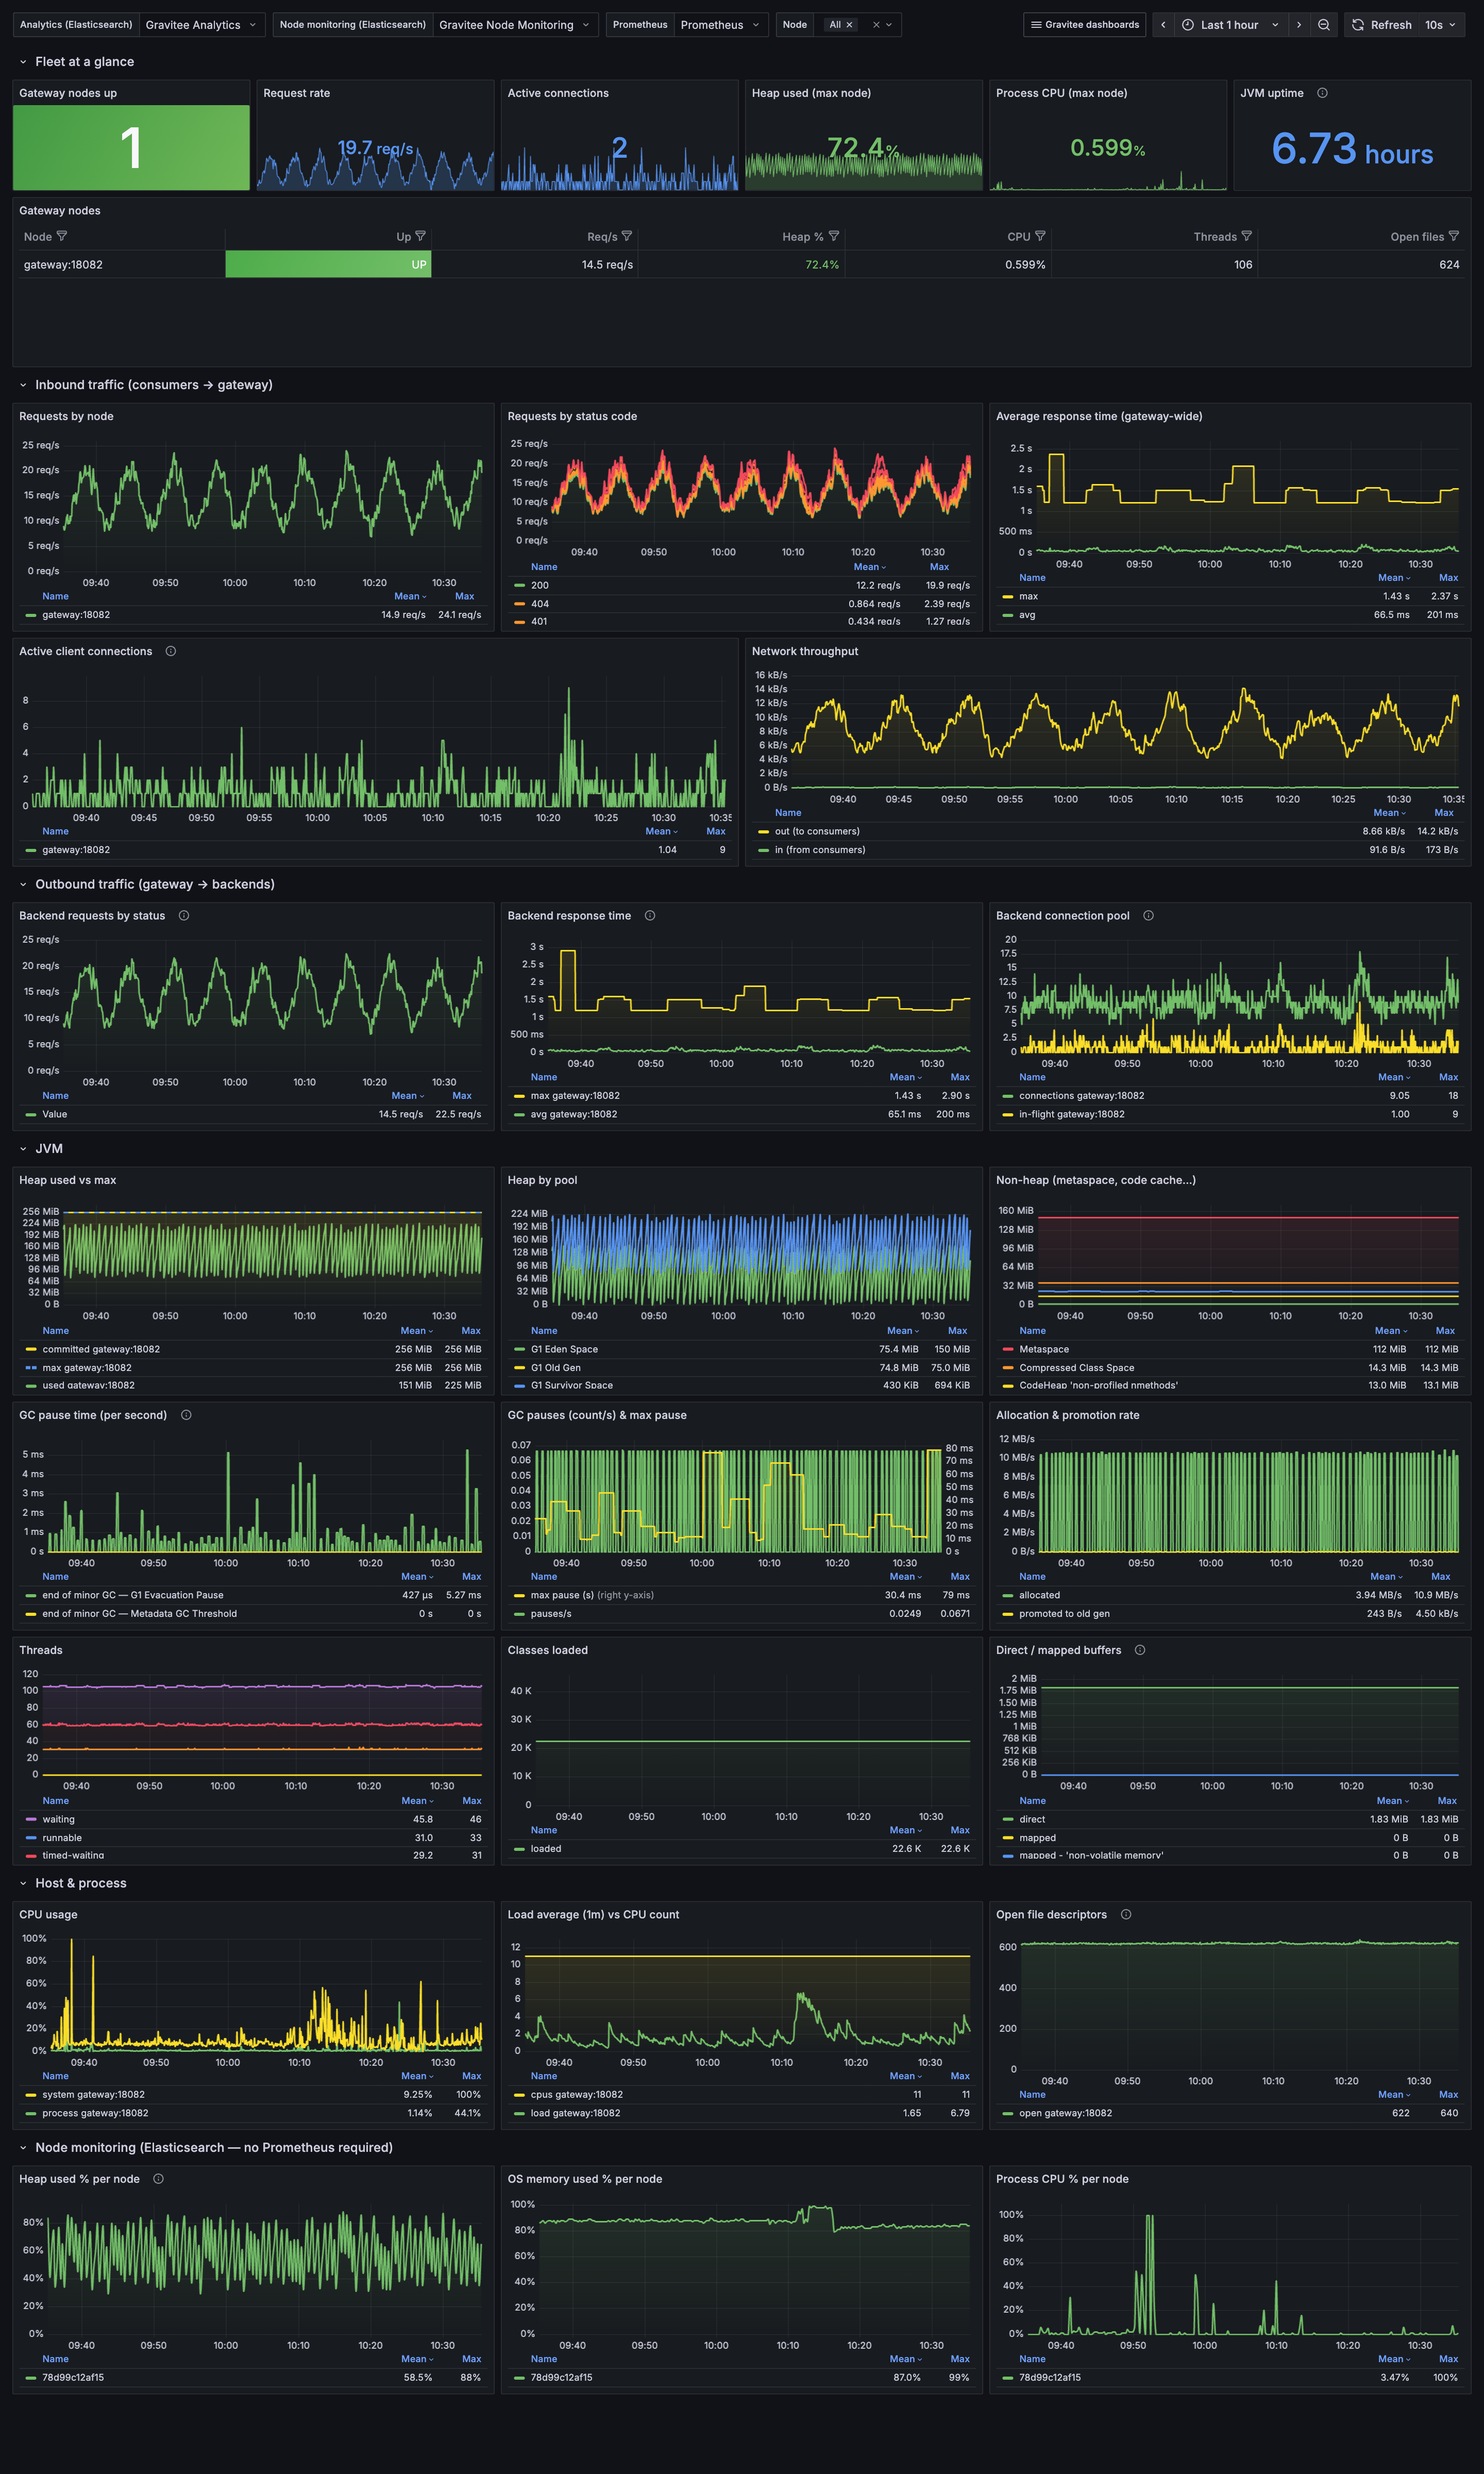
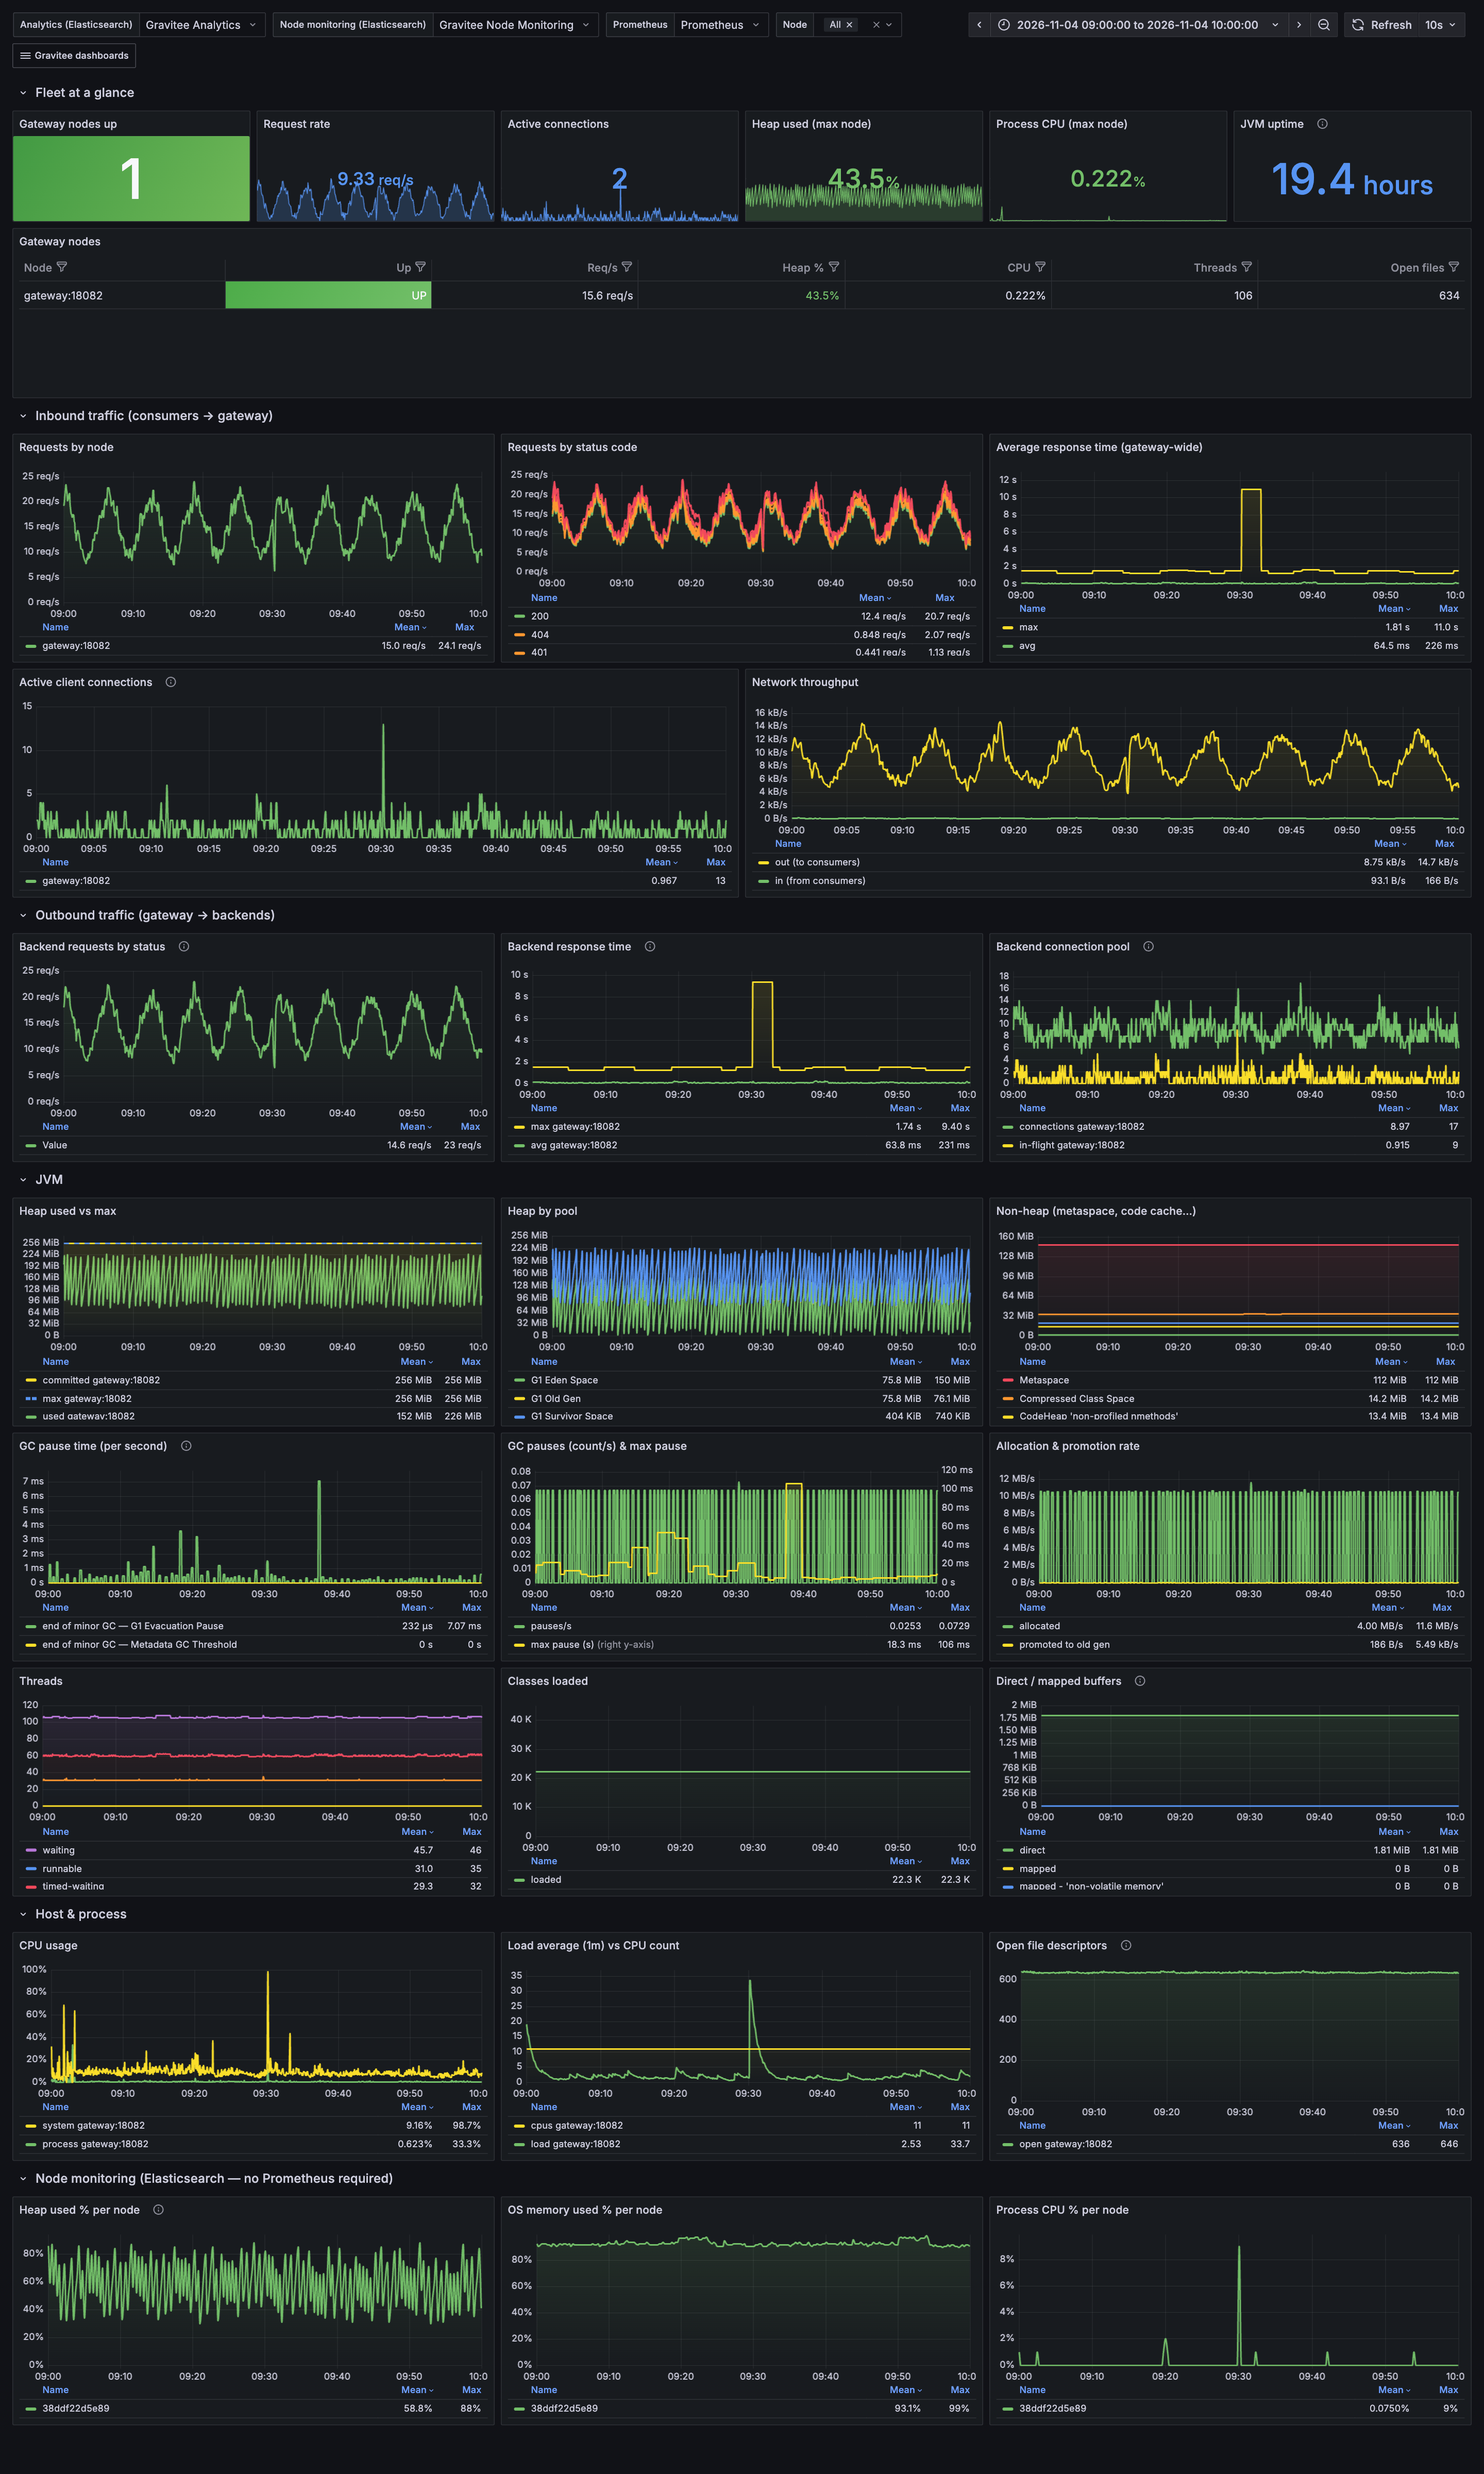
Address docs review: scoped alerts, payload search label, masked IPs
- Scope the heap, GC, CPU and backend-error alerts to job="gravitee" in both
  editions, so other JVM targets in the same Prometheus don't fire them.
- Rename the Call Logs search control to "Search payloads": headers aren't
  searchable.
- Guides: list the only headers hidden in Call Logs, flag the Enterprise-only
  panels, state the tested Grafana/Prometheus versions, drop the Enterprise
  license line from the OTel requirements, and note that payload sizes are on
  spans but not charted.
- Screenshots: client IPs are replaced before capture; CALL_QUERY picks the
  Call Logs detail call; the OTel capture honours TO. All shots retaken.

diff --git a/otel/capture-media.js b/otel/capture-media.js
@@ -1,6 +1,6 @@
 // Captures full-height PNGs of every Gravitee OTel dashboard (Grafana on :3001) into otel/media/.
 // Needs playwright-core (`(cd scripts && npm i --no-save playwright-core@1.48.2)`) and a local Google Chrome.
-// Usage: node otel/capture-media.js     FROM=<epoch ms | now-1h> (default now-1h)   ONLY=<uid,uid>
+// Usage: node otel/capture-media.js     FROM=<epoch ms | now-1h> (default now-1h)   TO=<epoch ms | now>   ONLY=<uid,uid>
 const fs = require('fs');
 const path = require('path');
 const { chromium } = require(path.join(__dirname, '..', 'scripts', 'node_modules', 'playwright-core'));
@@ -25,11 +25,21 @@ const DASHBOARDS = [
 // Request id of the most recent logged POST with a backend response
 async function recentCall() {
   const q = '{service_name="gio-apim-gateway"} | gravitee_log_type="endpoint-response" | gravitee_api_name="Payments API"';
-  const start = (Date.now() - 600000) * 1e6;
+  const end = /^\d+$/.test(process.env.TO || '') ? Number(process.env.TO) : Date.now();
   const r = await fetch(`${GRAFANA}/api/datasources/proxy/uid/gravitee-loki/loki/api/v1/query_range?` +
-    new URLSearchParams({ query: q, limit: '20', start: String(start) }), { headers: { Authorization: AUTH } });
+    new URLSearchParams({ query: q, limit: '20', start: String((end - 600000) * 1e6), end: String(end * 1e6) }),
+    { headers: { Authorization: AUTH } });
   const streams = (await r.json()).data.result;
   return streams[0].stream.gravitee_request_id;
+}
+
+// Client IPs are replaced by a placeholder in the page right before each screenshot
+async function hideIps(page) {
+  await page.evaluate(() => {
+    const ip = /\b\d{1,3}(\.\d{1,3}){3}\b/g;
+    const walk = document.createTreeWalker(document.body, NodeFilter.SHOW_TEXT);
+    for (let n; (n = walk.nextNode());) if (ip.test(n.nodeValue)) n.nodeValue = n.nodeValue.replace(ip, '•.•.•.•');
+  });
 }
 
 function gridHeight(uid) {
@@ -50,6 +60,7 @@ function gridHeight(uid) {
     await page.goto(`${GRAFANA}/d/${d.uid}?orgId=1&${RANGE}${extra}&kiosk&refresh=`);
     await page.waitForLoadState('networkidle', { timeout: 30000 }).catch(() => {});
     await page.waitForTimeout(8000);
+    await hideIps(page);
     await page.screenshot({ path: path.join(OUT, `${d.file}.png`), fullPage: true });
     console.log(`${d.file}.png`);
     await ctx.close();

diff --git a/scripts/capture-media.js b/scripts/capture-media.js
@@ -3,6 +3,7 @@
 // Usage: node scripts/capture-media.js [shots|video|all]
 //   FROM=<epoch ms | now-1h>  start of the time range (default now-1h); TO defaults to now
 //   ONLY=<uid,uid>            capture only these dashboards
+//   CALL_QUERY=<lucene>       logged call shown in Call Logs' call detail
 const fs = require('fs');
 const path = require('path');
 const { chromium } = require('playwright-core');
@@ -22,7 +23,7 @@ const DASHBOARDS = [
   { uid: 'gravitee-runtime', file: '4-gateway-fleet-runtime', extra: '' },
   { uid: 'gravitee-slo', file: '5-slos-error-budgets', extra: '' },
   // Call detail shows a recent logged POST, so the payload panels have bodies on every hop
-  { uid: 'gravitee-logs', file: '7-call-logs', extra: async () => `&var-request_id=${await recentCall(
+  { uid: 'gravitee-logs', file: '7-call-logs', extra: async () => `&var-request_id=${await recentCall(process.env.CALL_QUERY ||
     'entrypoint-request.method:POST AND _exists_:endpoint-response.body AND _exists_:application-name')}` },
 ].filter(d => !process.env.ONLY || process.env.ONLY.split(',').includes(d.uid));
 
@@ -36,6 +37,15 @@ async function recentCall(query) {
   const frame = (await r.json()).results.A.frames[0];
   const i = frame.schema.fields.findIndex(f => f.name === 'request-id');
   return frame.data.values[i][0];
+}
+
+// Client IPs are replaced by a placeholder in the page right before each screenshot
+async function hideIps(page) {
+  await page.evaluate(() => {
+    const ip = /\b\d{1,3}(\.\d{1,3}){3}\b/g;
+    const walk = document.createTreeWalker(document.body, NodeFilter.SHOW_TEXT);
+    for (let n; (n = walk.nextNode());) if (ip.test(n.nodeValue)) n.nodeValue = n.nodeValue.replace(ip, '•.•.•.•');
+  });
 }
 
 const url = (d, kiosk = true) => `${GRAFANA}/d/${d.uid}?orgId=1&${RANGE}${d.extra}${kiosk ? '&kiosk' : ''}&refresh=`;
@@ -71,6 +81,7 @@ async function shots(browser) {
     await page.goto(url(d));
     await settle(page, 9000);
     const file = path.join(OUT, `${d.file}.png`);
+    await hideIps(page);
     await page.screenshot({ path: file });
     console.log(`png ${file} (${W}x${h})`);
     await ctx.close();

diff --git a/dashboards-src/build.py b/dashboards-src/build.py
@@ -1186,7 +1186,7 @@ def logs():
          es_terms_var("api", "API", "api-name", ds=LOG),
          {"name": "request_id", "label": "Request id (call detail)", "type": "textbox", "query": "",
           "current": {"text": "", "value": ""}, "hide": 0},
-         {"name": "search", "label": "Search (headers & payloads)", "type": "textbox", "query": "*",
+         {"name": "search", "label": "Search payloads", "type": "textbox", "query": "*",
           "current": {"text": "*", "value": "*"}, "hide": 0}]
     return dashboard("gravitee-logs", "Gravitee · Call Logs",
                      "Headers and payloads of logged API calls, on the client and backend side: search them, list "

diff --git a/otel/INSTALL.md b/otel/INSTALL.md
@@ -24,12 +24,12 @@ Every call can be opened as a **trace**: its phases, plan flow, each policy with
 
 | Component | Version / setting |
 | --- | --- |
-| Gravitee APIM | 4.13 or later, v4 APIs. The OpenTelemetry reporter (`gravitee-reporter-otel`) ships in the 4.13 Gateway image. Tested with an Enterprise license only. |
+| Gravitee APIM | 4.13 or later, v4 APIs. The OpenTelemetry reporter (`gravitee-reporter-otel`) ships in the 4.13 Gateway image. Tested on 4.13.5. |
 | OpenTelemetry Collector | *contrib* distribution (for the `spanmetrics` connector), tested on 0.115 |
-| Prometheus | 2.40 or later (tested on 3.5) |
+| Prometheus | Tested on 3.5 |
 | Tempo | 2.7 or later: the trace tables use the `most_recent` search hint (tested on 2.7.2) |
 | Loki | 3.0 or later, with structured metadata (tested on 3.3) |
-| Grafana | 10.4 or later (tested on 12.2) |
+| Grafana | Tested on 12.2 |
 
 ## Install
 
@@ -82,7 +82,7 @@ Every call can be opened as a **trace**: its phases, plan flow, each policy with
 
 The OpenTelemetry signals don't carry everything the Elasticsearch analytics record does:
 
-| Not available here | Why | Closest alternative |
+| Not charted here | Why | Closest alternative |
 | --- | --- | --- |
 | Country, city, world map | No geo-IP on spans | The client IP is on each trace |
 | User agents, client OS | The span has the raw user agent, but as a metric label it would create too many series | Search traces in Tempo by `span.user_agent.original` |
@@ -91,7 +91,8 @@ The OpenTelemetry signals don't carry everything the Elasticsearch analytics rec
 | Business dimensions (`custom.*`, Assign Metrics) | Not exported on spans | — |
 | Request and response headers in Call Logs | OTel logs carry bodies only | The trace shows the call's path through the Gateway |
 | Reason for plan-security rejections (401) | No failure key on those spans | The 401/403 counts |
-| Payload sizes, backend connect time, time-to-first-byte | Not on spans | Backend time from the client span |
+| Payload sizes | On the server span (`http.request.body.size`, `http.response.body.size`, from `Content-Length`), but not charted | Shown on each trace |
+| Backend connect time, time-to-first-byte | Not on spans | Backend time from the client span |
 
 The Gateway overhead is an **average** (server span minus backend span): percentiles can't be subtracted.
 

diff --git a/dashboards-src/INSTALL.md b/dashboards-src/INSTALL.md
@@ -25,13 +25,15 @@ Gravitee writes one analytics record per API call. These dashboards use it as-is
 
 ## Requirements
 
+A few panels use data available only with Gravitee Enterprise, such as the business dimensions set by the Assign Metrics policy. Without a license, those panels explain how to enable them.
+
 | Component | Version / setting |
 | --- | --- |
 | Gravitee APIM | 4.x, v4 APIs (analytics index `gravitee-v4-metrics-*`) |
 | Analytics reporter | Elasticsearch or OpenSearch (the default APIM reporter) |
 | Gateway metrics | `services.metrics.enabled=true`, `services.metrics.prometheus.enabled=true` |
-| Grafana | 10.4 or later (tested on 12.2) |
-| Prometheus | 2.40 or later (tested on 3.5) |
+| Grafana | Tested on 12.2 |
+| Prometheus | Tested on 3.5 |
 
 ## Install
 
@@ -56,7 +58,7 @@ The Call Logs dashboard reads the logs Gravitee writes for APIs with logging ena
 
 - The condition is evaluated when the request arrives, so it can't select on the response status. Log a sample, a debug header or a time window (`#request.timestamp`).
 - A logged call takes about 2 KB, several times its analytics record. Keep the log index's retention short.
-- Logs can contain personal data and credentials. The dashboard hides API key, `Authorization` and cookie headers, but they're stored in the index: restrict access to the call-logs data source.
+- Logs can contain personal data and credentials. The dashboard hides only the `X-Gravitee-Api-Key`, `Authorization`, `Proxy-Authorization`, `Cookie` and `Set-Cookie` headers. API keys sent under another header name, and credentials inside bodies, stay visible, and everything is stored in the index: restrict access to the call-logs data source, and add your own header names to the Call Logs panels if needed.
 - Search payloads with wildcards (`*ORD-1234*`): bodies are split on spaces only. Headers are stored but not searchable.
 
 ## Add your own business dimensions (Enterprise)
